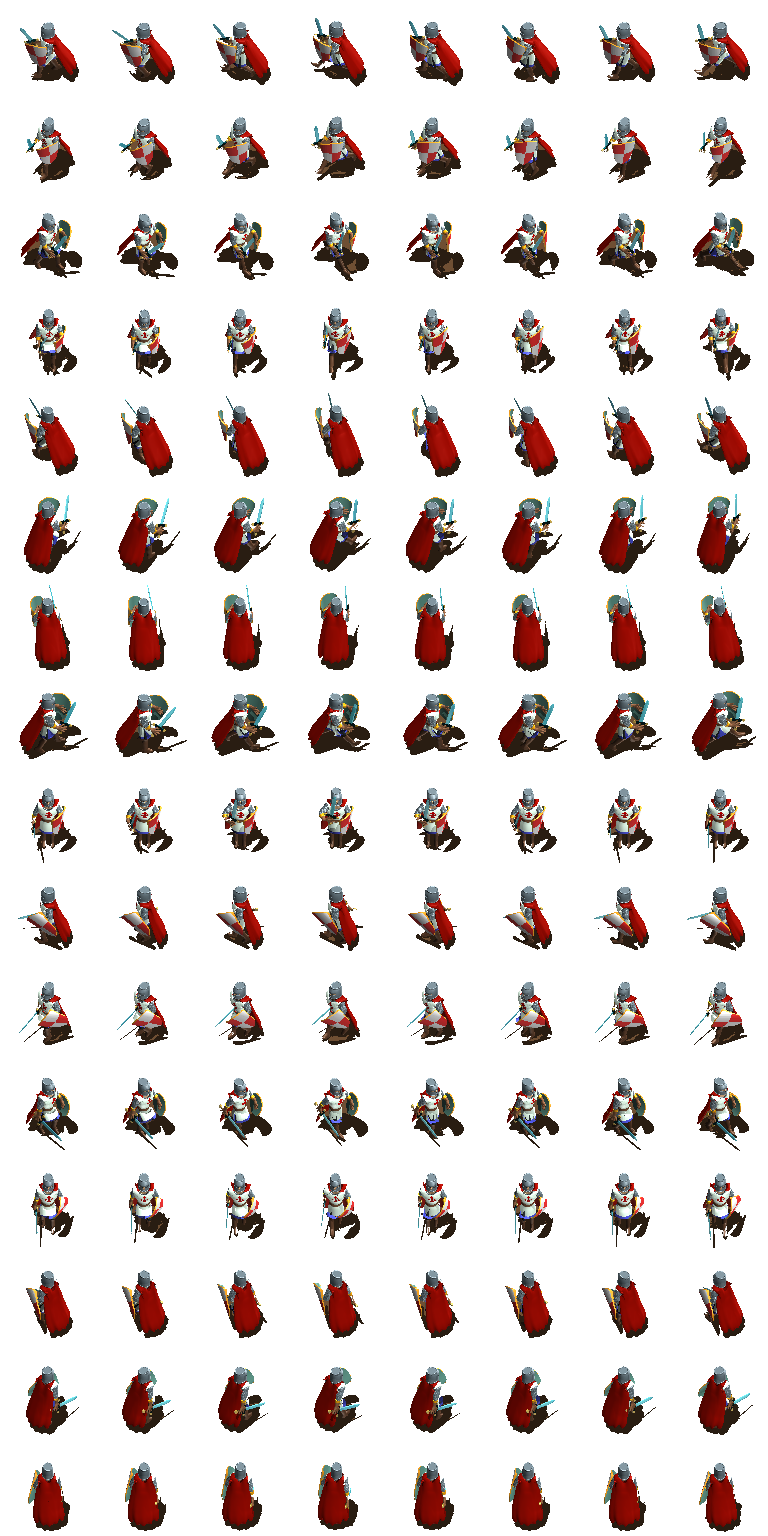
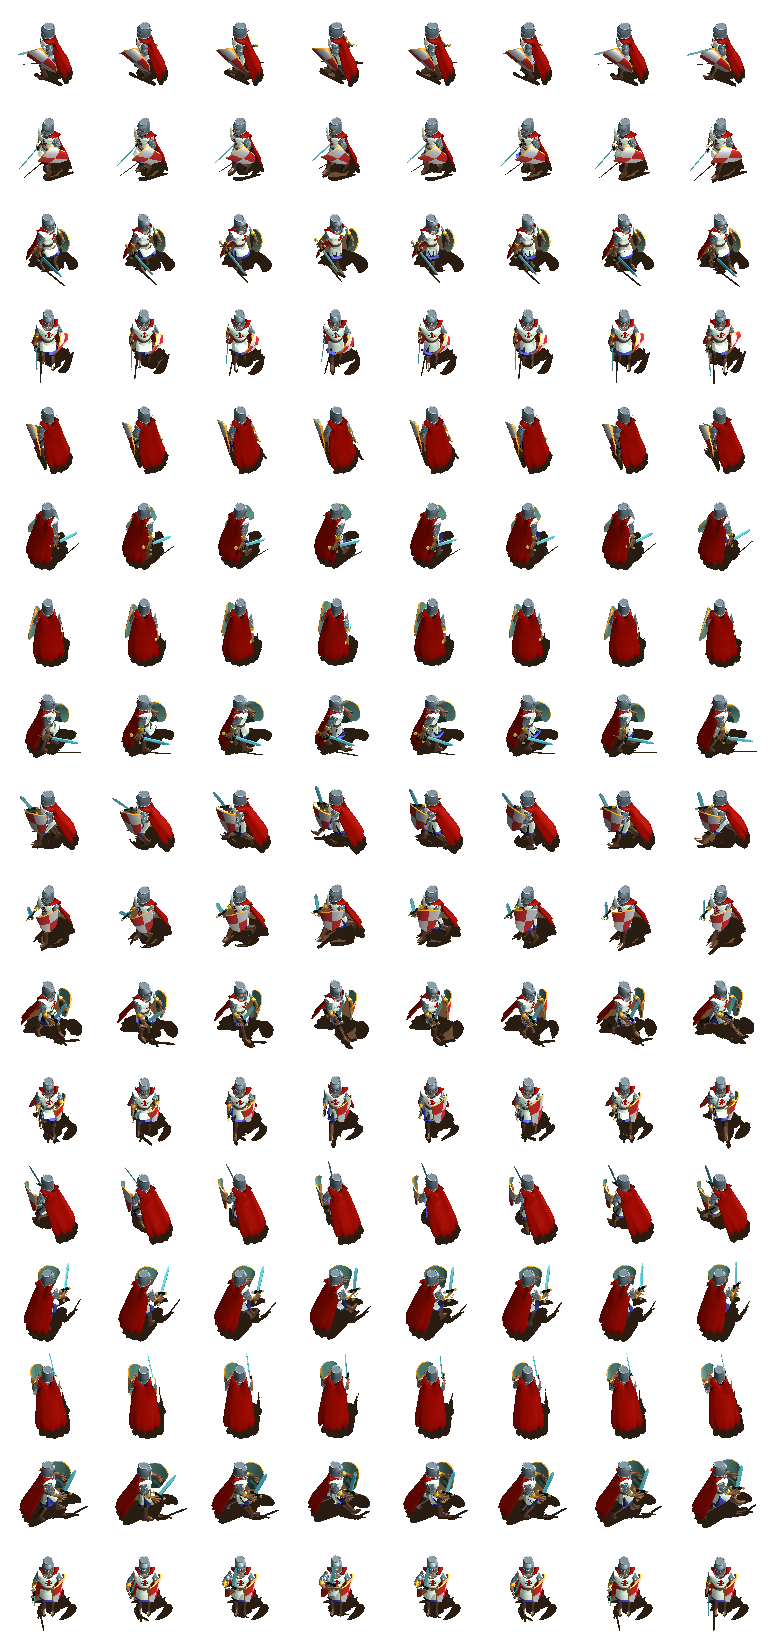
Tomi/Lucas: Agregamos los sprites de running al personaje.

diff --git a/trunk/TpTaller/src/view/entities/personaje/PersonajeVista.cpp b/trunk/TpTaller/src/view/entities/personaje/PersonajeVista.cpp
@@ -117,20 +117,44 @@ void PersonajeVista::Mostrar(SDL_Surface* fondo) {
 	Vector2* movementDirection = this->miPersonaje->GetMovementDirection();
 	float direction = movementDirection->GetAngle();
 
-	if (M_PI * 15 / 8 < direction || direction < M_PI * 1 / 8)
+	if ((M_PI * 15 / 8 < direction || direction < M_PI * 1 / 8)
+			&& miPersonaje->isRunning())
+		clipToDraw = &clipsDerechaRun[marco];
+	else if (M_PI * 15 / 8 < direction || direction < M_PI * 1 / 8)
 		clipToDraw = &clipsDerecha[marco];
+	else if ((M_PI * 1 / 8 < direction && direction < M_PI * 3 / 8)
+			&& miPersonaje->isRunning())
+		clipToDraw = &clipsAbajoDerRun[marco];
 	else if (M_PI * 1 / 8 < direction && direction < M_PI * 3 / 8)
 		clipToDraw = &clipsAbajoDer[marco];
+	else if ((M_PI * 3 / 8 < direction && direction < M_PI * 5 / 8)
+			&& miPersonaje->isRunning())
+		clipToDraw = &clipsAbajoRun[marco];
 	else if (M_PI * 3 / 8 < direction && direction < M_PI * 5 / 8)
 		clipToDraw = &clipsAbajo[marco];
+	else if ((M_PI * 5 / 8 < direction && direction < M_PI * 7 / 8)
+			&& miPersonaje->isRunning())
+		clipToDraw = &clipsAbajoIzqRun[marco];
 	else if (M_PI * 5 / 8 < direction && direction < M_PI * 7 / 8)
 		clipToDraw = &clipsAbajoIzq[marco];
+	else if ((M_PI * 7 / 8 < direction && direction < M_PI * 9 / 8)
+			&& miPersonaje->isRunning())
+		clipToDraw = &clipsIzquierdaRun[marco];
 	else if (M_PI * 7 / 8 < direction && direction < M_PI * 9 / 8)
 		clipToDraw = &clipsIzquierda[marco];
+	else if ((M_PI * 9 / 8 < direction && direction < M_PI * 11 / 8)
+			&& miPersonaje->isRunning())
+		clipToDraw = &clipsArribaIzqRun[marco];
 	else if (M_PI * 9 / 8 < direction && direction < M_PI * 11 / 8)
 		clipToDraw = &clipsArribaIzq[marco];
+	else if ((M_PI * 11 / 8 < direction && direction < M_PI * 13 / 8)
+			&& miPersonaje->isRunning())
+		clipToDraw = &clipsArribaRun[marco];
 	else if (M_PI * 11 / 8 < direction && direction < M_PI * 13 / 8)
 		clipToDraw = &clipsArriba[marco];
+	else if ((M_PI * 13 / 8 < direction && direction < M_PI * 15 / 8)
+			&& miPersonaje->isRunning())
+		clipToDraw = &clipsArribaDerRun[marco];
 	else if (M_PI * 13 / 8 < direction && direction < M_PI * 15 / 8)
 		clipToDraw = &clipsArribaDer[marco];
 
@@ -158,61 +182,124 @@ void PersonajeVista::EstablecerLosClips() {
 
 	for (int i = 0; i < numberOfClips; i++) {
 		SDL_Rect rect;
-
+		int j = 0;
 		clipsIzquierda.push_back(rect);
 		clipsIzquierda[i].x = imageWidth * i;
-		clipsIzquierda[i].y = imageHeight * 0;
+		clipsIzquierda[i].y = imageHeight * j;
 		clipsIzquierda[i].w = imageWidth;
 		clipsIzquierda[i].h = imageHeight;
+		j++;
 
 		clipsAbajoIzq.push_back(rect);
 		clipsAbajoIzq[i].x = imageWidth * i;
-		clipsAbajoIzq[i].y = imageHeight * 1;
+		clipsAbajoIzq[i].y = imageHeight * j;
 		clipsAbajoIzq[i].w = imageWidth;
 		clipsAbajoIzq[i].h = imageHeight;
+		j++;
 
 		clipsAbajoDer.push_back(rect);
 		clipsAbajoDer[i].x = imageWidth * i;
-		clipsAbajoDer[i].y = imageHeight * 2;
+		clipsAbajoDer[i].y = imageHeight * j;
 		clipsAbajoDer[i].w = imageWidth;
 		clipsAbajoDer[i].h = imageHeight;
+		j++;
 
 		clipsAbajo.push_back(rect);
 		clipsAbajo[i].x = imageWidth * i;
-		clipsAbajo[i].y = imageHeight * 3;
+		clipsAbajo[i].y = imageHeight * j;
 		clipsAbajo[i].w = imageWidth;
 		clipsAbajo[i].h = imageHeight;
+		j++;
 
 		clipsArribaIzq.push_back(rect);
 		clipsArribaIzq[i].x = imageWidth * i;
-		clipsArribaIzq[i].y = imageHeight * 4;
+		clipsArribaIzq[i].y = imageHeight * j;
 		clipsArribaIzq[i].w = imageWidth;
 		clipsArribaIzq[i].h = imageHeight;
+		j++;
 
 		clipsArribaDer.push_back(rect);
 		clipsArribaDer[i].x = imageWidth * i;
-		clipsArribaDer[i].y = imageHeight * 5;
+		clipsArribaDer[i].y = imageHeight * j;
 		clipsArribaDer[i].w = imageWidth;
 		clipsArribaDer[i].h = imageHeight;
+		j++;
 
 		clipsArriba.push_back(rect);
 		clipsArriba[i].x = imageWidth * i;
-		clipsArriba[i].y = imageHeight * 6;
+		clipsArriba[i].y = imageHeight * j;
 		clipsArriba[i].w = imageWidth;
 		clipsArriba[i].h = imageHeight;
+		j++;
 
 		clipsDerecha.push_back(rect);
 		clipsDerecha[i].x = imageWidth * i;
-		clipsDerecha[i].y = imageHeight * 7;
+		clipsDerecha[i].y = imageHeight * j;
 		clipsDerecha[i].w = imageWidth;
 		clipsDerecha[i].h = imageHeight;
+		j++;
+
+		clipsIzquierdaRun.push_back(rect);
+		clipsIzquierdaRun[i].x = imageWidth * i;
+		clipsIzquierdaRun[i].y = imageHeight * j;
+		clipsIzquierdaRun[i].w = imageWidth;
+		clipsIzquierdaRun[i].h = imageHeight;
+		j++;
+
+		clipsAbajoIzqRun.push_back(rect);
+		clipsAbajoIzqRun[i].x = imageWidth * i;
+		clipsAbajoIzqRun[i].y = imageHeight * j;
+		clipsAbajoIzqRun[i].w = imageWidth;
+		clipsAbajoIzqRun[i].h = imageHeight;
+		j++;
+
+		clipsAbajoDerRun.push_back(rect);
+		clipsAbajoDerRun[i].x = imageWidth * i;
+		clipsAbajoDerRun[i].y = imageHeight * j;
+		clipsAbajoDerRun[i].w = imageWidth;
+		clipsAbajoDerRun[i].h = imageHeight;
+		j++;
+
+		clipsAbajoRun.push_back(rect);
+		clipsAbajoRun[i].x = imageWidth * i;
+		clipsAbajoRun[i].y = imageHeight * j;
+		clipsAbajoRun[i].w = imageWidth;
+		clipsAbajoRun[i].h = imageHeight;
+		j++;
+
+		clipsArribaIzqRun.push_back(rect);
+		clipsArribaIzqRun[i].x = imageWidth * i;
+		clipsArribaIzqRun[i].y = imageHeight * j;
+		clipsArribaIzqRun[i].w = imageWidth;
+		clipsArribaIzqRun[i].h = imageHeight;
+		j++;
+
+		clipsArribaDerRun.push_back(rect);
+		clipsArribaDerRun[i].x = imageWidth * i;
+		clipsArribaDerRun[i].y = imageHeight * j;
+		clipsArribaDerRun[i].w = imageWidth;
+		clipsArribaDerRun[i].h = imageHeight;
+		j++;
+
+		clipsArribaRun.push_back(rect);
+		clipsArribaRun[i].x = imageWidth * i;
+		clipsArribaRun[i].y = imageHeight * j;
+		clipsArribaRun[i].w = imageWidth;
+		clipsArribaRun[i].h = imageHeight;
+		j++;
+
+		clipsDerechaRun.push_back(rect);
+		clipsDerechaRun[i].x = imageWidth * i;
+		clipsDerechaRun[i].y = imageHeight * j;
+		clipsDerechaRun[i].w = imageWidth;
+		clipsDerechaRun[i].h = imageHeight;
+		j++;
 
 		clipsQuieto.push_back(rect);
 		clipsQuieto[i].x = imageWidth * i;
-		clipsQuieto[i].y = imageHeight * 8;
+		clipsQuieto[i].y = imageHeight * j;
 		clipsQuieto[i].w = imageWidth;
 		clipsQuieto[i].h = imageHeight;
-
 	}
 }
 

diff --git a/trunk/TpTaller/includes/view/entities/PersonajeVista.h b/trunk/TpTaller/includes/view/entities/PersonajeVista.h
@@ -26,30 +26,29 @@
 #define PERSONAJE_ANCHO  96
 #define PERSONAJE_ALTO  96
 
-
 using namespace std;
 
-class PersonajeVista : public EntityView {
+class PersonajeVista: public EntityView {
 public:
-    PersonajeVista();
-    void cargarImagen(string path);
-    void Mostrar(SDL_Surface* fondo);
-    void setPersonaje(Personaje* personaje);
-    Personaje* getPersonaje();
-    void UpdateCameraPos(int x, int y);
-    Personaje* getEntity();
-    void setEntity(Entity* entity);
-    int getImageHeight();
-    void setImageHeight(int height);
-    int getImageWidth();
-    void setImageWidth(int width);
-    int getNClips();
-    void setNClips(int clips);
-    virtual ~PersonajeVista();
-    void EstablecerLosClips();
-    void draw(SDL_Surface* screen, Position* camera, Timer* timer);
+	PersonajeVista();
+	void cargarImagen(string path);
+	void Mostrar(SDL_Surface* fondo);
+	void setPersonaje(Personaje* personaje);
+	Personaje* getPersonaje();
+	void UpdateCameraPos(int x, int y);
+	Personaje* getEntity();
+	void setEntity(Entity* entity);
+	int getImageHeight();
+	void setImageHeight(int height);
+	int getImageWidth();
+	void setImageWidth(int width);
+	int getNClips();
+	void setNClips(int clips);
+	virtual ~PersonajeVista();
+	void EstablecerLosClips();
+	void draw(SDL_Surface* screen, Position* camera, Timer* timer);
 private:
-    void showFrame(SDL_Surface* source, SDL_Surface* screen, SDL_Rect* clip);
+	void showFrame(SDL_Surface* source, SDL_Surface* screen, SDL_Rect* clip);
 
 	Personaje* miPersonaje;
 	//SDL_Surface* fondo;
@@ -74,6 +73,14 @@ private:
 	vector<SDL_Rect> clipsArribaDer;
 	vector<SDL_Rect> clipsArribaIzq;
 	vector<SDL_Rect> clipsQuieto;
+	vector<SDL_Rect> clipsDerechaRun;
+	vector<SDL_Rect> clipsIzquierdaRun;
+	vector<SDL_Rect> clipsArribaRun;
+	vector<SDL_Rect> clipsAbajoRun;
+	vector<SDL_Rect> clipsAbajoIzqRun;
+	vector<SDL_Rect> clipsAbajoDerRun;
+	vector<SDL_Rect> clipsArribaDerRun;
+	vector<SDL_Rect> clipsArribaIzqRun;
 
 };
 

diff --git a/trunk/TpTaller/src/model/entities/personaje/Personaje.cpp b/trunk/TpTaller/src/model/entities/personaje/Personaje.cpp
@@ -28,6 +28,11 @@ void Personaje::MoveTo(int x, int y) {
 	endPos = new Vector2(x, y);
 }
 
+
+bool Personaje::isRunning(){
+	return true;
+}
+
 void Personaje::Update() {
 	if (IsMoving() == false)
 	{

diff --git a/trunk/TpTaller/includes/model/entities/personaje/Personaje.h b/trunk/TpTaller/includes/model/entities/personaje/Personaje.h
@@ -48,6 +48,7 @@ public:
 	void setTile( Tile* _tile );
 	Tile* getTile();
 	void assignPath(list<Tile *> *_path);
+	bool isRunning();
 
 	string getClassName();
 private:
